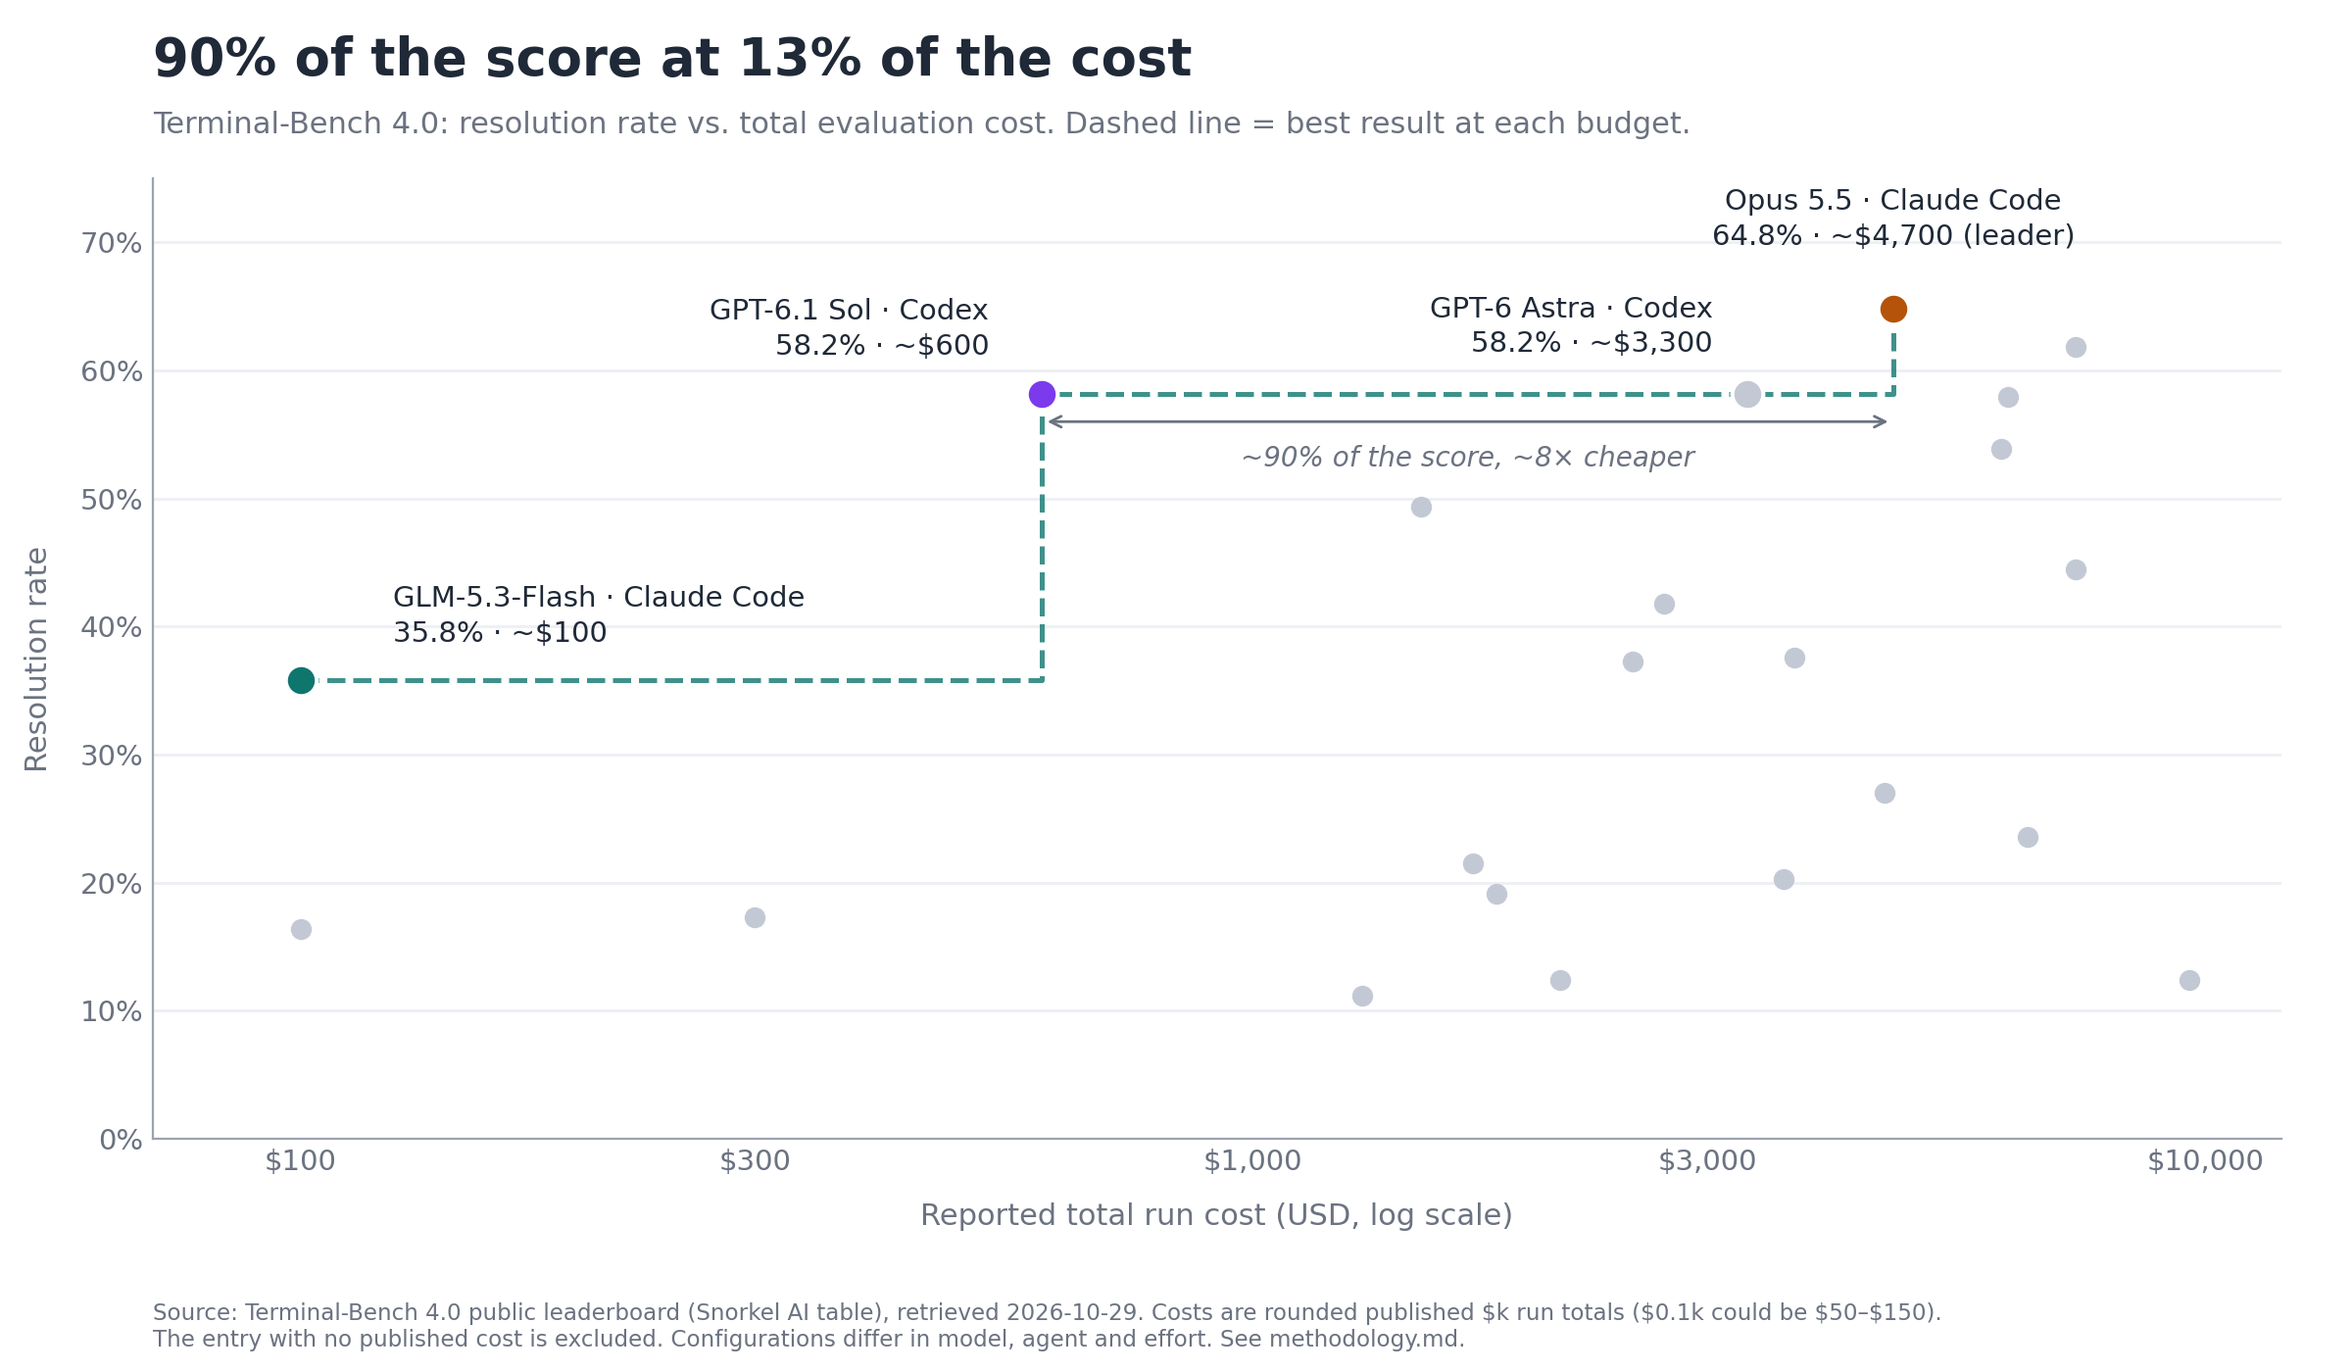
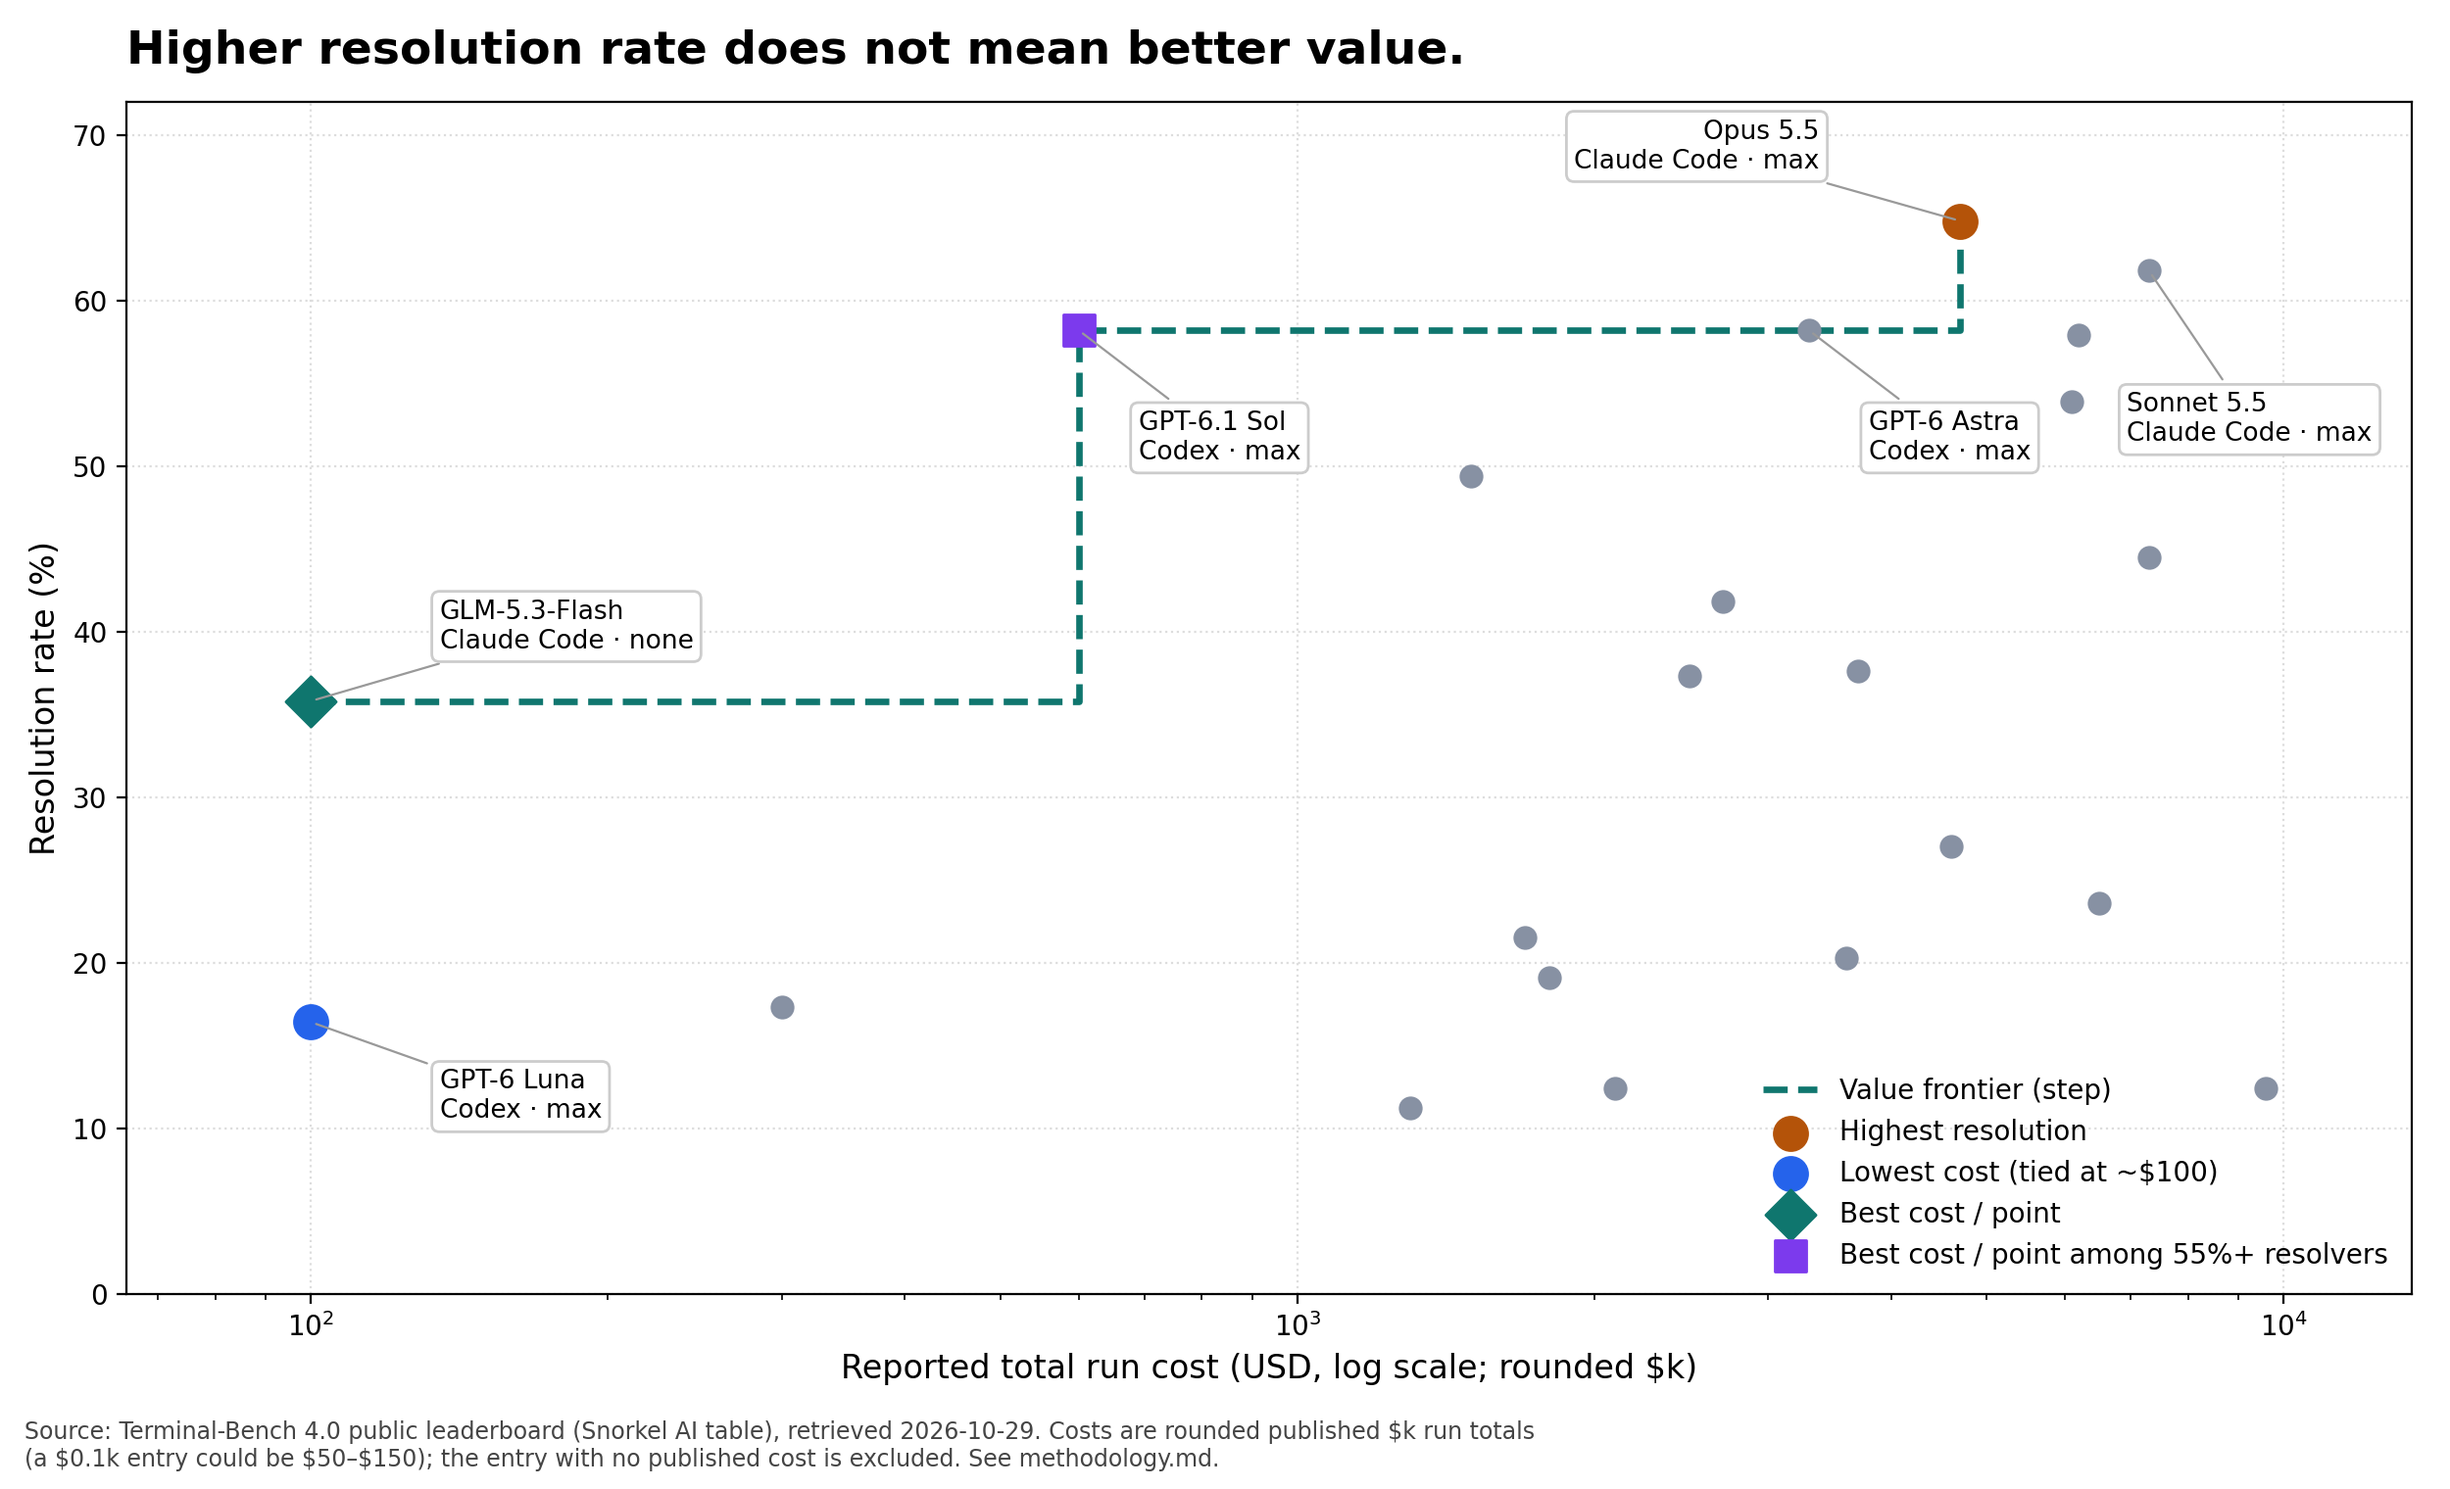
added correct chart code

diff --git a/Terminal-Bench-4.0/chart.py b/Terminal-Bench-4.0/chart.py
@@ -1,53 +1,60 @@
 import pandas as pd, matplotlib
 matplotlib.use("Agg")
 import matplotlib.pyplot as plt
+from matplotlib.ticker import FixedLocator, FuncFormatter, NullLocator
 
 df = pd.read_csv("analysis.csv")
-df["label"] = df.model + "\n" + df.agent + " · " + df.effort
-GREY, TEAL, ORANGE, BLUE, GOLD = "#8791A3", "#0F766E", "#B45309", "#2563EB", "#7C3AED"
+INK, MUTED, GREY, TEAL, ORANGE, PURPLE = "#1f2937", "#6b7280", "#c3c9d4", "#0F766E", "#B45309", "#7C3AED"
+plt.rcParams["font.family"] = "DejaVu Sans"
 
-fig, ax = plt.subplots(figsize=(12.5, 7.6), dpi=200)
-ax.set_xscale("log"); ax.set_xlim(65, 13500); ax.set_ylim(0, 72)
-ax.grid(True, color="#ddd", ls=":", lw=.8); ax.set_axisbelow(True)
+fig, ax = plt.subplots(figsize=(12, 7), dpi=200)
+ax.set_xscale("log"); ax.set_xlim(70, 12000); ax.set_ylim(0, 75)
+for sp in ("top", "right"): ax.spines[sp].set_visible(False)
+for sp in ("left", "bottom"): ax.spines[sp].set_color("#9ca3af")
+ax.grid(axis="y", color="#eceff3", lw=1); ax.set_axisbelow(True)
+ax.xaxis.set_major_locator(FixedLocator([100, 300, 1000, 3000, 10000]))
+ax.xaxis.set_minor_locator(NullLocator())
+ax.xaxis.set_major_formatter(FuncFormatter(lambda v, _: f"${v:,.0f}"))
+ax.tick_params(colors=MUTED, length=0, labelsize=10.5)
+ax.set_yticks(range(0, 71, 10))
+ax.set_yticklabels([f"{v}%" for v in range(0, 71, 10)])
 
-# Pareto frontier (step: best result available at a given budget)
+# Pareto frontier (step: best result available at each budget)
 pts = df.sort_values(["cost", "resolution_rate"], ascending=[True, False])
-front, best = [], -1
+fx, fy, best = [], [], -1
 for _, r in pts.iterrows():
     if r.resolution_rate > best:
-        front.append(r); best = r.resolution_rate
-fx = [r.cost for r in front]; fy = [r.resolution_rate for r in front]
-ax.step(fx, fy, where="post", color=TEAL, ls="--", lw=2.4, label="Value frontier (step)")
+        fx.append(r.cost); fy.append(r.resolution_rate); best = r.resolution_rate
+ax.step(fx, fy, where="post", color=TEAL, ls="--", lw=1.8, alpha=.8, zorder=2)
 
-ax.scatter(df.cost, df.resolution_rate, s=60, color=GREY, zorder=3)
+ax.scatter(df.cost, df.resolution_rate, s=45, color=GREY, zorder=3)
 
-def mark(model, color, marker="o", s=150, label=None):
+def hi(model, color, size=130):
     r = df[df.model == model].iloc[0]
-    ax.scatter(r.cost, r.resolution_rate, s=s, color=color, marker=marker, zorder=5, label=label)
+    ax.scatter(r.cost, r.resolution_rate, s=size, color=color, zorder=5, edgecolor="white", lw=1.5)
+    return r
 
-mark("Opus 5.5", ORANGE, label="Highest resolution")
-mark("GPT-6 Luna", BLUE, label="Lowest cost (tied at ~$100)")
-mark("GLM-5.3-Flash", TEAL, "D", 170, "Best cost / point")
-mark("GPT-6.1 Sol", GOLD, "s", 130, "Best cost / point among 55%+ resolvers")
+def label(model, color, text, dx, dy, ha="left"):
+    r = hi(model, color)
+    ax.annotate(text, (r.cost, r.resolution_rate), xytext=(r.cost * dx, r.resolution_rate + dy),
+                fontsize=10.5, color=INK, ha=ha, va="center", linespacing=1.35)
 
-def note(model, dx, dy, ha="left"):
-    r = df[df.model == model].iloc[0]
-    ax.annotate(r.label, (r.cost, r.resolution_rate), xytext=(r.cost * dx, r.resolution_rate + dy),
-                fontsize=9.5, ha=ha, va="center", zorder=6,
-                bbox=dict(boxstyle="round,pad=0.3", fc="white", ec="#ccc"),
-                arrowprops=dict(arrowstyle="-", color="#999", lw=.8))
-note("Opus 5.5", 0.72, 4.5, "right")
-note("Sonnet 5.5", 0.95, -9, "left")
-note("GPT-6.1 Sol", 1.15, -6.5)
-note("GPT-6 Astra", 1.15, -6.5)
-note("GLM-5.3-Flash", 1.35, 4.5)
-note("GPT-6 Luna", 1.35, -4.5)
+label("Opus 5.5", ORANGE, "Opus 5.5 · Claude Code\n64.8% · ~$4,700 (leader)", 1.0, 7, "center")
+label("GPT-6.1 Sol", PURPLE, "GPT-6.1 Sol · Codex\n58.2% · ~$600", 0.88, 5, "right")
+label("GPT-6 Astra", GREY, "GPT-6 Astra · Codex\n58.2% · ~$3,300", 0.92, 5.2, "right")
+label("GLM-5.3-Flash", TEAL, "GLM-5.3-Flash · Claude Code\n35.8% · ~$100", 1.25, 5)
 
-ax.set_xlabel("Reported total run cost (USD, log scale; rounded $k)", fontsize=12)
-ax.set_ylabel("Resolution rate (%)", fontsize=12)
-ax.set_title("Higher resolution rate does not mean better value.", loc="left", fontsize=17, fontweight="bold", pad=14)
-ax.legend(loc="lower right", frameon=False, fontsize=10)
-fig.text(0.01, 0.012, "Source: Terminal-Bench 4.0 public leaderboard (Snorkel AI table), retrieved 2026-10-29. Costs are rounded published \\$k run totals\n"
-         "(a \\$0.1k entry could be \\$50–\\$150); the entry with no published cost is excluded. See methodology.md.", fontsize=8.5, color="#444", va="bottom")
-fig.tight_layout(rect=(0, 0.05, 1, 1))
+# headline callout
+ax.annotate("", xy=(600, 56), xytext=(4700, 56), arrowprops=dict(arrowstyle="<->", color=MUTED, lw=1))
+ax.text(1680, 54.2, "~90% of the score, ~8× cheaper", ha="center", va="top", fontsize=10, color=MUTED, style="italic")
+
+ax.set_xlabel("Reported total run cost (USD, log scale)", fontsize=11, color=MUTED, labelpad=10)
+ax.set_ylabel("Resolution rate", fontsize=11, color=MUTED, labelpad=10)
+fig.text(0.065, 0.945, "90% of the score at 13% of the cost", fontsize=19, fontweight="bold", color=INK, ha="left")
+fig.text(0.065, 0.903, "Terminal-Bench 4.0: resolution rate vs. total evaluation cost. Dashed line = best result at each budget.",
+         fontsize=11, color=MUTED, ha="left")
+fig.text(0.065, 0.015, "Source: Terminal-Bench 4.0 public leaderboard (Snorkel AI table), retrieved 2026-10-29. Costs are rounded published \\$k run totals "
+         "(\\$0.1k could be \\$50–\\$150).\nThe entry with no published cost is excluded. Configurations differ in model, agent and effort. See methodology.md.",
+         fontsize=8.3, color=MUTED, va="bottom")
+fig.subplots_adjust(left=0.065, right=0.97, top=0.87, bottom=0.17)
 fig.savefig("chart.png")
